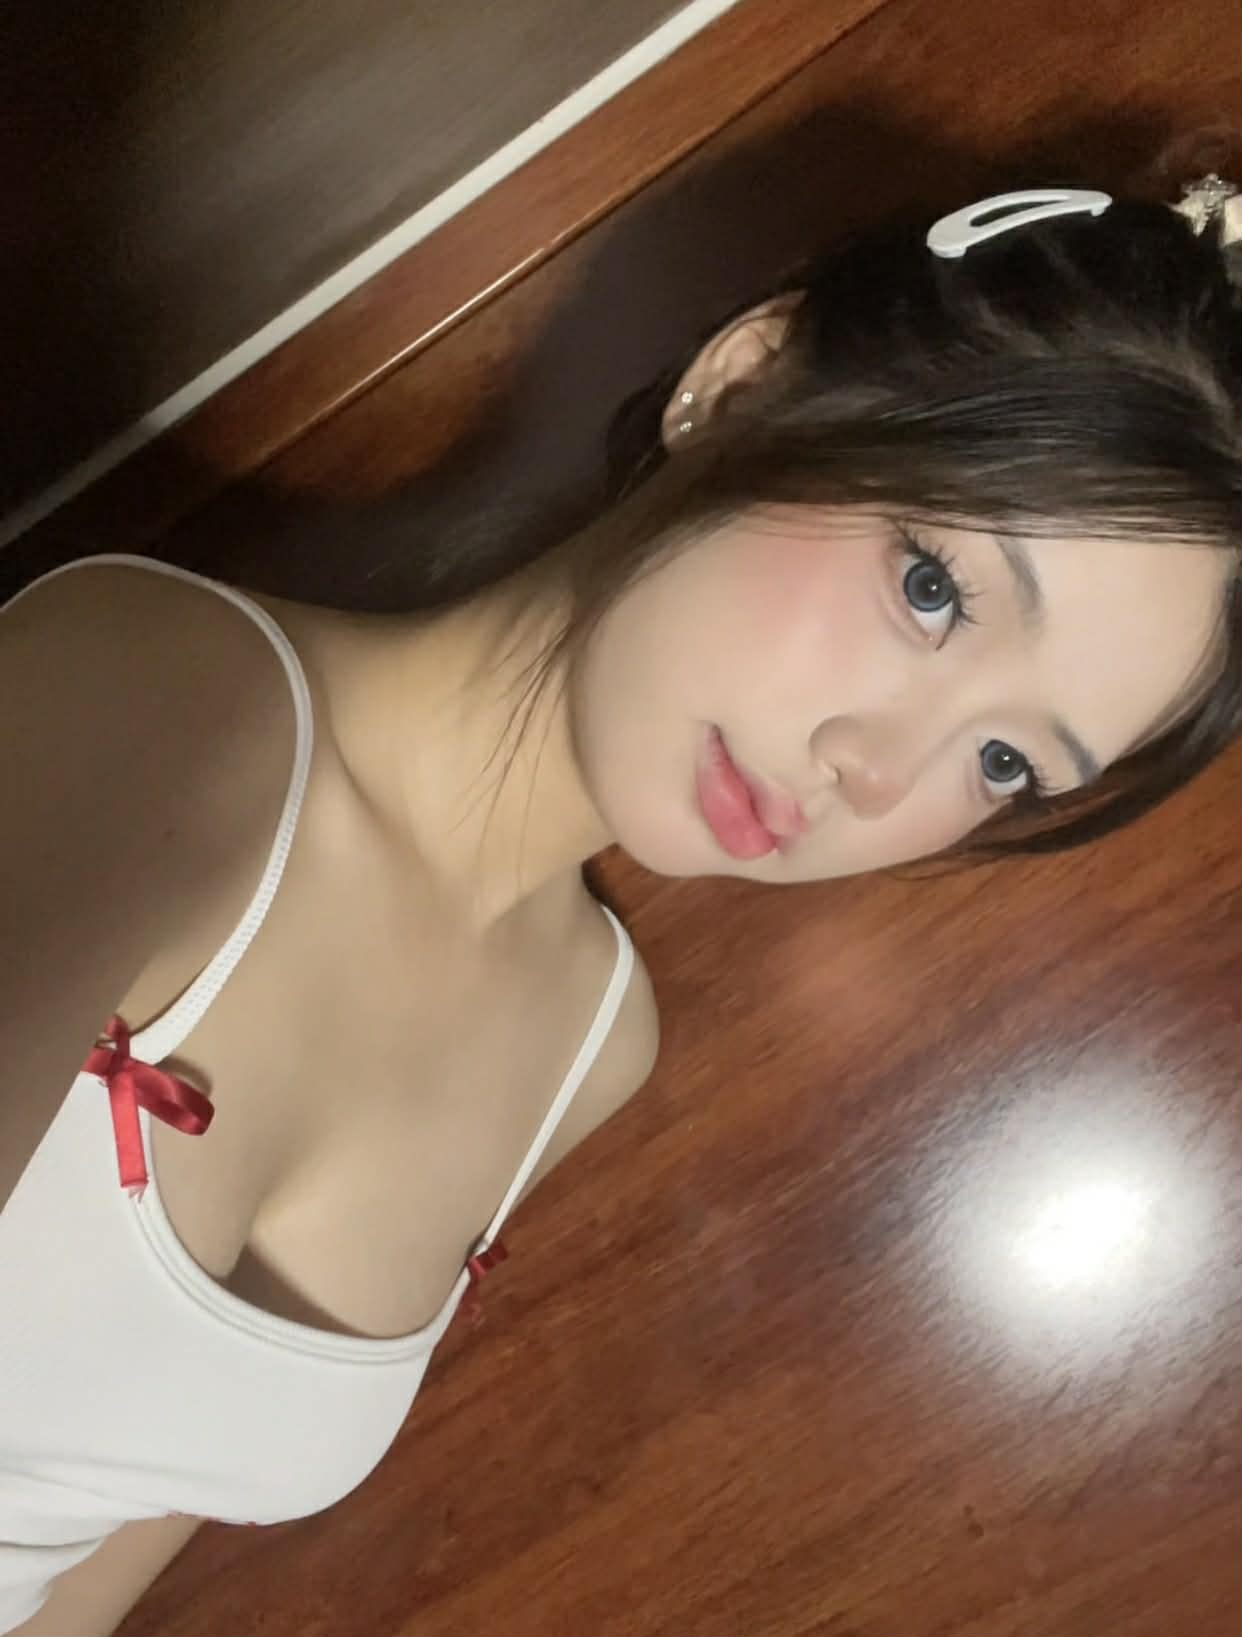
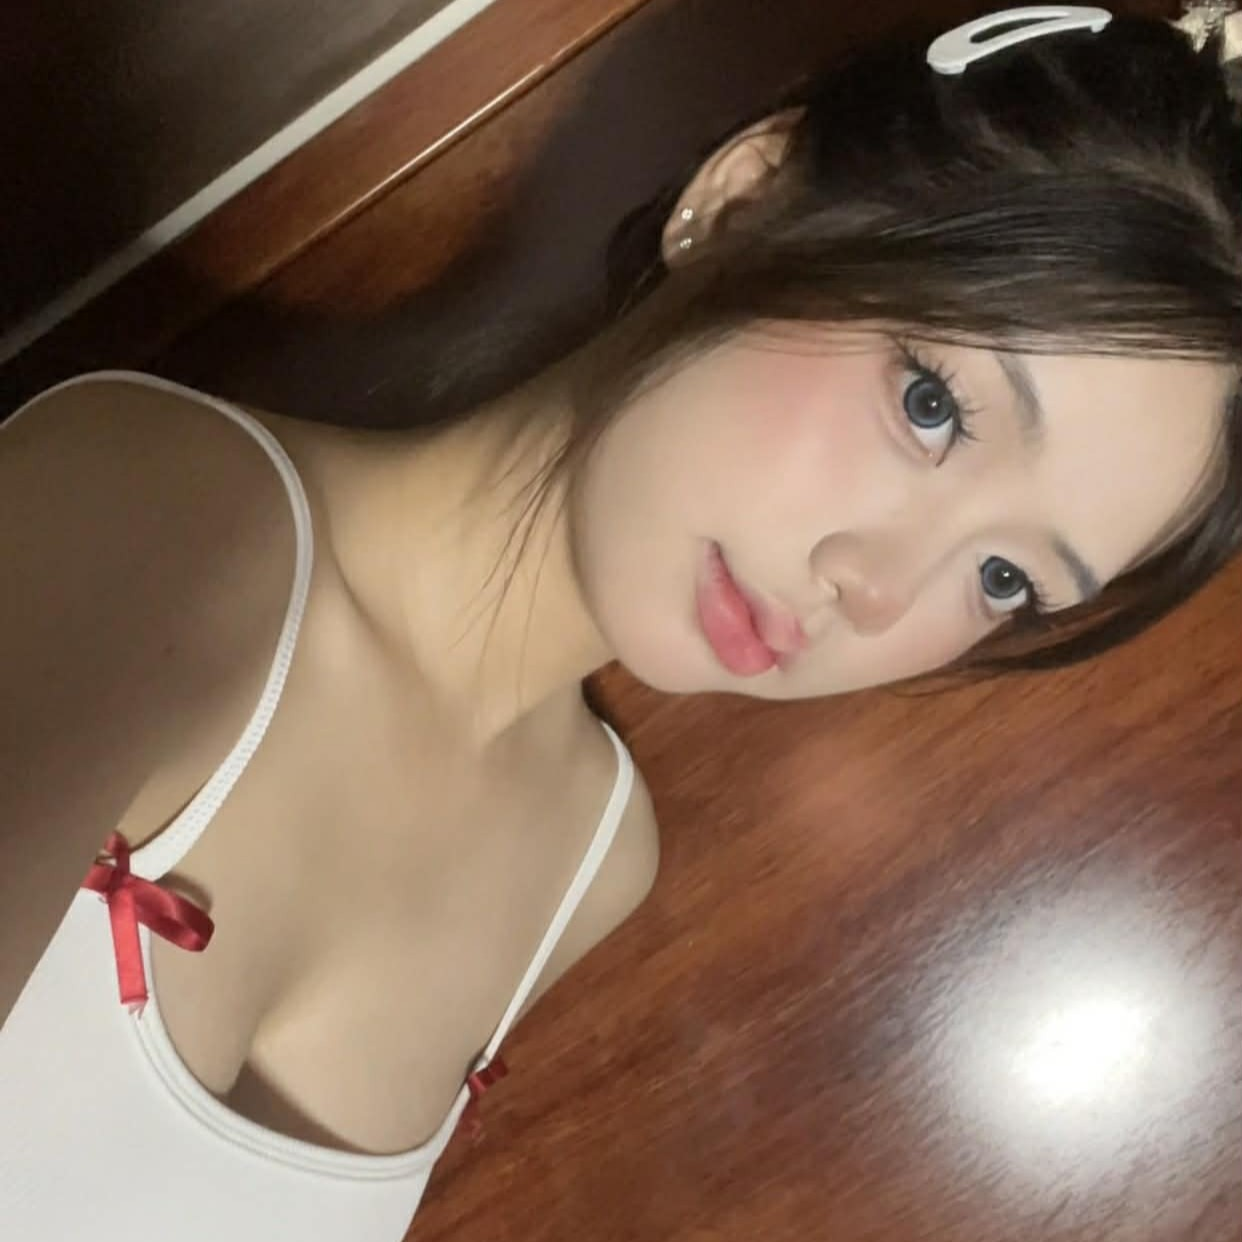
chinh anh

diff --git a/index.html b/index.html
@@ -91,16 +91,11 @@
         let bgMusic = new Audio(MUSIC_URL);
         bgMusic.loop = true; bgMusic.volume = 1.0;
 
-                const loader = new THREE.TextureLoader();
+        const loader = new THREE.TextureLoader();
         const photoFiles = ['./image1.jpg', './image2.jpg', './image3.jpg', './image4.jpg', './image5.jpg'];
         const photoTextures = [];
-        photoFiles.forEach((f, i) => {
-            const texture = loader.load(f);
-            // Cắt ảnh từ giữa thay vì resize
-            texture.matrixAutoUpdate = false;
-            texture.center.set(0.5, 0.5);
-            photoTextures[i] = texture;
-        });
+        photoFiles.forEach((f, i) => photoTextures[i] = loader.load(f));
+
         function createCustomTexture(type) {
             const canvas = document.createElement('canvas');
             canvas.width = 128; canvas.height = 128;
@@ -271,33 +266,13 @@
             return points;
         }
 
-               function createPhotos() {
+        function createPhotos() {
             const geo = new THREE.PlaneGeometry(8, 8);
             const borderGeo = new THREE.PlaneGeometry(9, 9); 
             const borderMat = new THREE.MeshBasicMaterial({ color: 0xFFD700 }); 
 
             for(let i=0; i<5; i++) {
-                const texture = photoTextures[i];
-                // Cắt ảnh cover mode
-                const img = texture.image;
-                if (img) {
-                    const aspect = img.width / img.height;
-                    const planeAspect = 1.0; // 8x8 = 1:1
-                    
-                    if (aspect > planeAspect) {
-                        // Ảnh rộng hơn - cắt ngang
-                        texture.repeat.x = planeAspect / aspect;
-                        texture.repeat.y = 1;
-                    } else {
-                        // Ảnh cao hơn - cắt dọc
-                        texture.repeat.x = 1;
-                        texture.repeat.y = aspect / planeAspect;
-                    }
-                    texture.offset.x = (1 - texture.repeat.x) / 2;
-                    texture.offset.y = (1 - texture.repeat.y) / 2;
-                }
-                
-                const mat = new THREE.MeshBasicMaterial({ map: texture, side: THREE.DoubleSide });
+                const mat = new THREE.MeshBasicMaterial({ map: photoTextures[i], side: THREE.DoubleSide });
                 const mesh = new THREE.Mesh(geo, mat);
                 const border = new THREE.Mesh(borderGeo, borderMat);
                 border.position.z = -0.1; 
